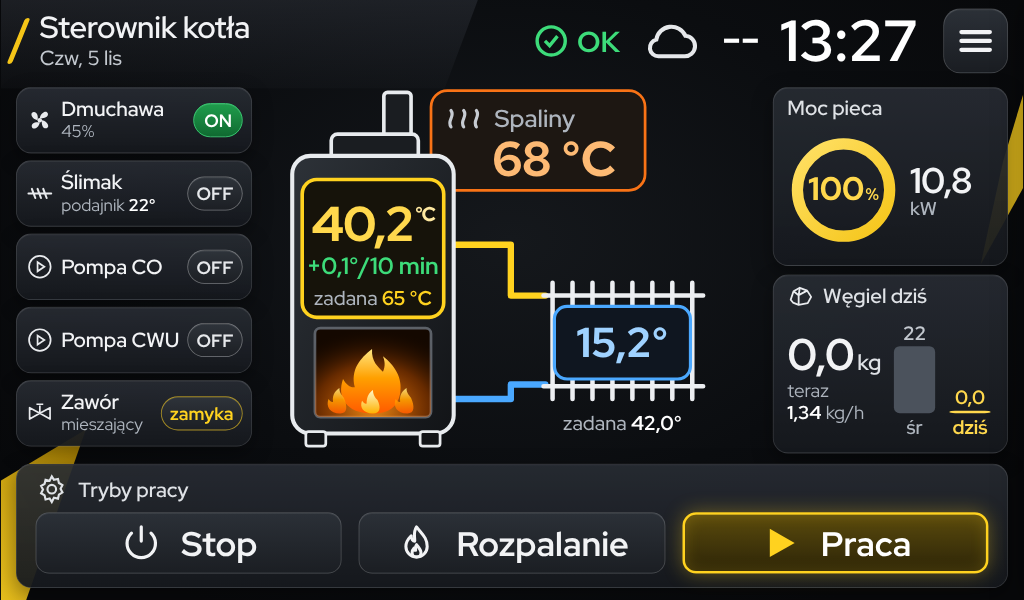
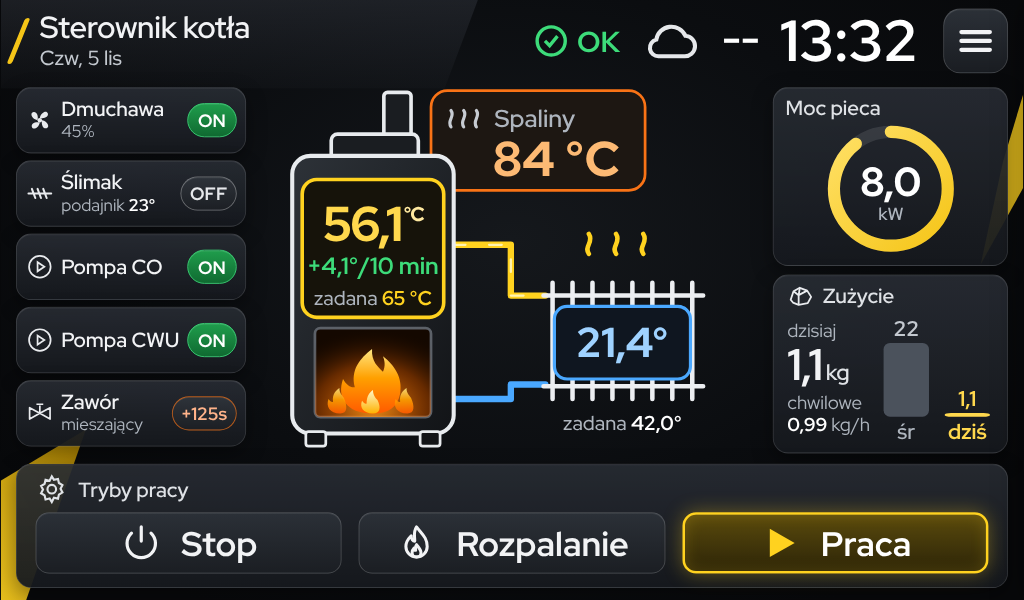
v2: kW in the power ring, usage card, fire by boiler temperature, valve seconds
Claude-Session: https://claude.ai/code/session_01DdT8uyvcAeLMFEL7SL1R7f

diff --git a/frontend/v2/index.html b/frontend/v2/index.html
@@ -94,9 +94,11 @@
       <!-- fire: burns while the boiler is in work or ignition -->
       <rect x="70" y="262" width="128" height="98" rx="6" fill="#140800" stroke="#5c6168" stroke-width="3"/>
       <rect class="glow" x="70" y="262" width="128" height="98" rx="6" fill="url(#fg)"/>
+      <g id="fire">
       <g class="flame"><path d="M134 356c-30 0-40-18-33-38 4 7 9 10 13 9-5-19 6-32 19-42-1 14 7 20 12 25 3-6 2-12 0-17 13 10 22 24 19 41-3 15-12 22-30 22z" fill="url(#f1)"/></g>
       <g class="flame f2"><path d="M98 356c-12 0-16-8-13-16 2 3 4 4 5 3-1-8 3-12 7-15 0 6 3 8 5 11 4 9 4 17-4 17zM172 356c-12 0-16-8-13-16 2 3 4 4 5 3-1-8 3-12 7-15 0 6 3 8 5 11 4 9 4 17-4 17z" fill="url(#f1)" opacity=".9"/></g>
       <g class="flame f2"><path d="M134 356c-11 0-15-7-12-14 2 3 4 4 5 3 0-8 3-12 7-15 0 6 3 9 5 11 4 8 3 15-5 15z" fill="url(#f2)"/></g>
+      </g>
       <!-- radiator -->
       <g transform="translate(318 192)">
         <g stroke="#eceef1" stroke-width="5" stroke-linecap="round" fill="none">
@@ -114,21 +116,20 @@
     <section class="side">
       <div class="card power">
         <div class="n">Moc pieca</div>
-        <div class="prow">
         <svg class="ring" viewBox="0 0 200 200">
           <defs><linearGradient id="pr" x1="0" y1="1" x2="1" y2="0"><stop offset="0" stop-color="#f5c518"/><stop offset="1" stop-color="#ffe066"/></linearGradient></defs>
-          <circle cx="100" cy="100" r="82" fill="none" stroke="rgba(255,255,255,0.1)" stroke-width="20"/>
-          <circle id="power-arc" cx="100" cy="100" r="82" fill="none" stroke="url(#pr)" stroke-width="20" stroke-linecap="round" stroke-dasharray="0 515" transform="rotate(-90 100 100)"/>
-          <text x="100" y="118" text-anchor="middle" fill="#ffd84d" font-size="58" font-weight="800"><tspan id="power-pct">--</tspan><tspan font-size="30" dx="2">%</tspan></text>
+          <circle cx="100" cy="100" r="84" fill="none" stroke="rgba(255,255,255,0.1)" stroke-width="18"/>
+          <circle id="power-arc" cx="100" cy="100" r="84" fill="none" stroke="url(#pr)" stroke-width="18" stroke-linecap="round" stroke-dasharray="0 528" transform="rotate(-90 100 100)"/>
+          <text x="100" y="110" text-anchor="middle" fill="#fff" font-size="60" font-weight="800" id="power-kw">--</text>
+          <text x="100" y="146" text-anchor="middle" fill="#aeb5be" font-size="26" font-weight="600">kW</text>
         </svg>
-        <div class="pk"><span id="power-kw">--</span><small>kW</small></div>
-        </div>
       </div>
       <div class="card coal">
-        <div class="ch"><svg viewBox="0 0 24 24" fill="none" stroke="#e9ebee" stroke-width="1.6" stroke-linejoin="round"><path d="M3 15.5 5.5 8 11 5l6.5 2.5L21 13l-3 5.5-8 1.5-5-2z"/><path d="M5.5 8 10 11.5 11 5M10 11.5l7.5-4M10 11.5 10 20"/></svg>Węgiel dziś</div>
+        <div class="ch"><svg viewBox="0 0 24 24" fill="none" stroke="#e9ebee" stroke-width="1.6" stroke-linejoin="round"><path d="M3 15.5 5.5 8 11 5l6.5 2.5L21 13l-3 5.5-8 1.5-5-2z"/><path d="M5.5 8 10 11.5 11 5M10 11.5l7.5-4M10 11.5 10 20"/></svg>Zużycie</div>
         <div class="cl">
+          <div class="cs">dzisiaj</div>
           <div class="cv"><span id="coal-today">--</span><small>kg</small></div>
-          <div class="cs">teraz<br><b id="coal-now">--</b> kg/h</div>
+          <div class="cs">chwilowe<br><b id="coal-now">--</b> kg/h</div>
         </div>
         <svg class="bars" id="coal-bars" viewBox="-6 0 174 184" preserveAspectRatio="xMidYMid meet"></svg>
       </div>

diff --git a/frontend/v2/style.css b/frontend/v2/style.css
@@ -78,6 +78,8 @@ header { position: relative; display: flex; align-items: center; gap: 22px; z-in
   background: linear-gradient(180deg, #2e333a, #1c1f24); border: 1.5px solid rgba(255, 255, 255, 0.35); box-shadow: inset 0 1px 0 rgba(255, 255, 255, 0.1); }
 .pill.on { color: #fff; background: linear-gradient(180deg, #1f9d4c, #106a31); border-color: var(--green); }
 .pill.val { color: var(--yellow); border-color: rgba(255, 210, 31, 0.6); }
+.pill.open { color: #ffb38a; border-color: rgba(249, 115, 22, 0.7); }
+.pill.close { color: #9fd2ff; border-color: rgba(74, 168, 255, 0.7); }
 .toggle { display: none; width: 74px; height: 42px; border-radius: 21px; position: relative; flex: none;
   background: linear-gradient(180deg, #3a3f47, #2a2e35); border: 1px solid rgba(255, 255, 255, 0.25); box-shadow: inset 0 2px 6px rgba(0, 0, 0, 0.45); }
 .toggle::after { content: ""; position: absolute; left: 4px; top: 4px; width: 32px; height: 32px; border-radius: 50%; transition: left .15s;
@@ -95,19 +97,17 @@ header { position: relative; display: flex; align-items: center; gap: 22px; z-in
 
 /* right: power and coal */
 .side { display: grid; grid-template-rows: 1fr 1fr; gap: 10px; min-height: 0; }
-.power { display: grid; grid-template-rows: auto 1fr; padding: 8px 14px 8px 16px; min-height: 0; }
-.power .n { font-size: 24px; font-weight: 600; color: #dfe2e6; white-space: nowrap; }
-.power .prow { display: flex; align-items: center; gap: 12px; min-height: 0; }
-.power .ring { height: 100%; max-height: 132px; width: auto; flex: none; }
-.power .pk { font-size: 42px; font-weight: 700; line-height: 1; letter-spacing: -1px; white-space: nowrap; }
-.power .pk small { display: block; font-size: 22px; font-weight: 600; color: var(--muted); letter-spacing: 0; margin-top: 2px; }
+.power { display: grid; grid-template-rows: auto 1fr; justify-items: center; padding: 8px 14px 10px; min-height: 0; }
+.power .n { justify-self: start; font-size: 24px; font-weight: 600; color: #dfe2e6; white-space: nowrap; }
+.power .ring { height: 100%; width: auto; min-height: 0; }
 .coal { display: grid; grid-template-columns: auto 1fr; grid-template-rows: auto 1fr; column-gap: 6px; padding: 8px 10px 6px 16px; min-height: 0; }
 .coal .ch { grid-column: 1 / -1; display: flex; align-items: center; gap: 10px; font-size: 24px; font-weight: 600; color: #dfe2e6; white-space: nowrap; }
 .coal .ch svg { width: 32px; height: 32px; flex: none; }
 .coal .cl { align-self: center; }
 .coal .cv { font-size: 52px; font-weight: 700; line-height: 1; letter-spacing: -1px; }
 .coal .cv small { font-size: 26px; font-weight: 600; color: #dfe2e6; margin-left: 4px; letter-spacing: 0; }
-.coal .cs { font-size: 22px; color: var(--muted); white-space: nowrap; line-height: 1.2; margin-top: 4px; }
+.coal .cs { font-size: 22px; color: var(--muted); white-space: nowrap; line-height: 1.2; }
+.coal .cv + .cs { margin-top: 6px; }
 .coal .cs b { color: #fff; }
 .coal .bars { height: 100%; width: 100%; min-width: 0; min-height: 0; }
 .side > .card { min-width: 0; overflow: hidden; }
@@ -141,6 +141,5 @@ header { position: relative; display: flex; align-items: center; gap: 22px; z-in
 
 /* ---------- no animations: they load the Pi ---------- */
 .flow { stroke-dasharray: 14 26; }
-.scene.cold .flame, .scene.cold .glow { display: none; }
 .scene.no-co .flow { opacity: 0; }
 .scene.no-co .heat { opacity: 0; }

diff --git a/frontend/v2/app.js b/frontend/v2/app.js
@@ -5,7 +5,7 @@
   const STATE_MS = 2000;            // the state, like the current main page
   const REPORT_MS = 5 * 60 * 1000;  // coal of the last days and the forecast change slowly
   const FAN_DEFAULT = 45;           // when the blower setting can't be read (as manual-switches.js)
-  const ARC = 515;                  // 2πr of the power ring (r = 82)
+  const ARC = 528;                  // 2πr of the power ring (r = 84)
   const DAYS = ["nd", "pn", "wt", "śr", "cz", "pt", "sb"];          // under the coal bars
   const DAY_NAMES = ["Nd", "Pon", "Wt", "Śr", "Czw", "Pt", "Sob"];  // in the header
   const MONTHS = ["sty", "lut", "mar", "kwi", "maj", "cze", "lip", "sie", "wrz", "paź", "lis", "gru"];
@@ -67,7 +67,6 @@
     const sens = s.sensors || {};
     const out = s.outputs || {};
     const stop = s.mode === "OFF" || s.mode === "MANUAL";
-    const burning = s.mode === "WORK" || s.mode === "IGNITION";
     $("stage").classList.toggle("stop", stop);
 
     // header: one sign - problems win over warnings
@@ -94,7 +93,12 @@
     $("hopper").textContent = sens.hopper_temp == null ? "--" : `${num(sens.hopper_temp, 0)}°`;
     pill($("co-pill"), !!out.pump_co_on);
     pill($("cwu-pill"), !!out.pump_cwu_on);
-    $("mixer-pill").textContent = out.mixer_open_on ? "otwiera" : out.mixer_close_on ? "zamyka" : "stoi";
+    // the valve: net seconds of opening (+) / closing (-) in the last 30 min, as the current GUI
+    const mv = Math.round(Number((s.radiators || {}).moves_30m_s));
+    const mp = $("mixer-pill");
+    mp.textContent = Number.isFinite(mv) ? `${mv > 0 ? "+" : mv < 0 ? "−" : ""}${Math.abs(mv)}s` : "--";
+    mp.classList.toggle("open", mv > 0);
+    mp.classList.toggle("close", mv < 0);
     renderToggles();
 
     // the picture
@@ -108,12 +112,19 @@
     const rad = s.radiators || {};
     $("rad-label").textContent = rad.curve_active ? "krzywa" : "zadana";
     $("rad-set").textContent = rad.target == null ? "--" : `${num(rad.target)}°`;
-    $("scene").classList.toggle("cold", !burning);
+    // the fire follows the boiler temperature, as the current GUI: none below 30°C, full at 50°C
+    const bt = Number(sens.boiler_temp);
+    const fire = $("fire");
+    if (!Number.isFinite(bt) || bt < 30) fire.style.display = "none";
+    else {
+      const k = 0.3 + 0.7 * Math.min(1, Math.max(0, (bt - 30) / 20));
+      fire.style.display = "";
+      fire.setAttribute("transform", `translate(134 356) scale(${k.toFixed(2)}) translate(-134 -356)`);
+    }
     $("scene").classList.toggle("no-co", !out.pump_co_on);
 
     // power
     const pct = Number(out.power_percent);
-    $("power-pct").textContent = Number.isFinite(pct) ? Math.round(pct) : "--";
     $("power-arc").setAttribute("stroke-dasharray", `${Number.isFinite(pct) ? (ARC * Math.max(0, Math.min(100, pct))) / 100 : 0} ${ARC}`);
     $("power-kw").textContent = num(s.power_kw);
     $("coal-now").textContent = num(s.coal_kgph, 2);

diff --git a/CHANGELOG.md b/CHANGELOG.md
@@ -2,6 +2,14 @@
 
 Wszystkie wersje, od najnowszej. Wersja w `VERSION`: Z = poprawka, Y = nowa funkcja, X = duża zmiana.
 
+## 1.65.3 · 05.11.2026 21:10
+
+- Nowe GUI (`/v2/`):
+  - moc pieca: w środku okręgu kW, bez procentów (okrąg pokazuje, ile mocy w użyciu)
+  - karta „Zużycie”: dzisiaj (kg) i chwilowe (kg/h) obok słupków
+  - ogień zależy od temperatury kotła jak w obecnym GUI (poniżej 30°C brak, do 50°C rośnie) - nie znika w STOP
+  - zawór pokazuje sekundy otwierania (+) / zamykania (−) z 30 min jak w obecnym GUI
+
 ## 1.65.2 · 05.11.2026 20:50
 
 - Nowe GUI (`/v2/`):
